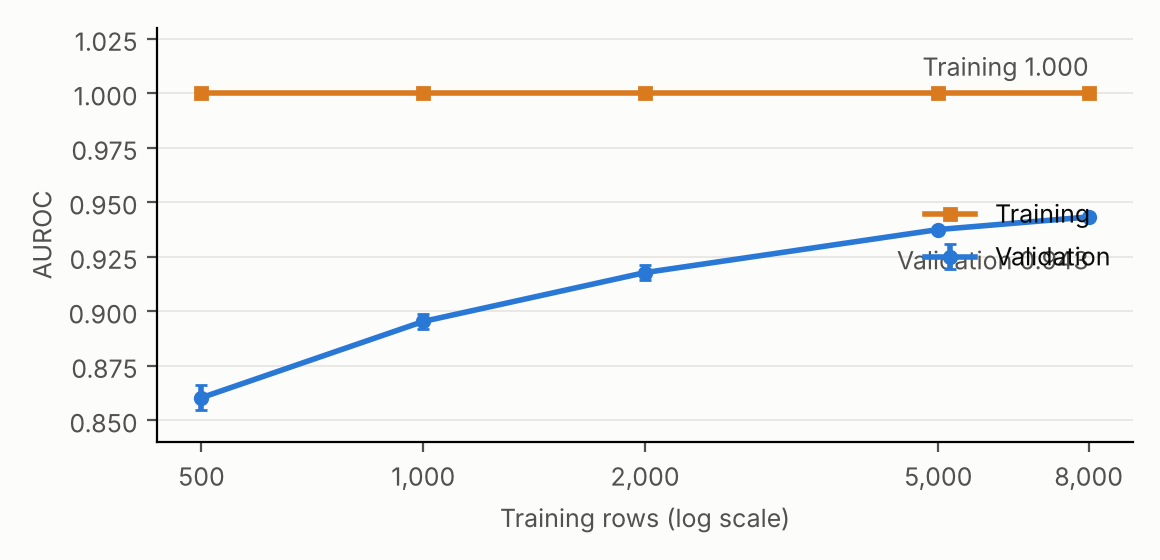
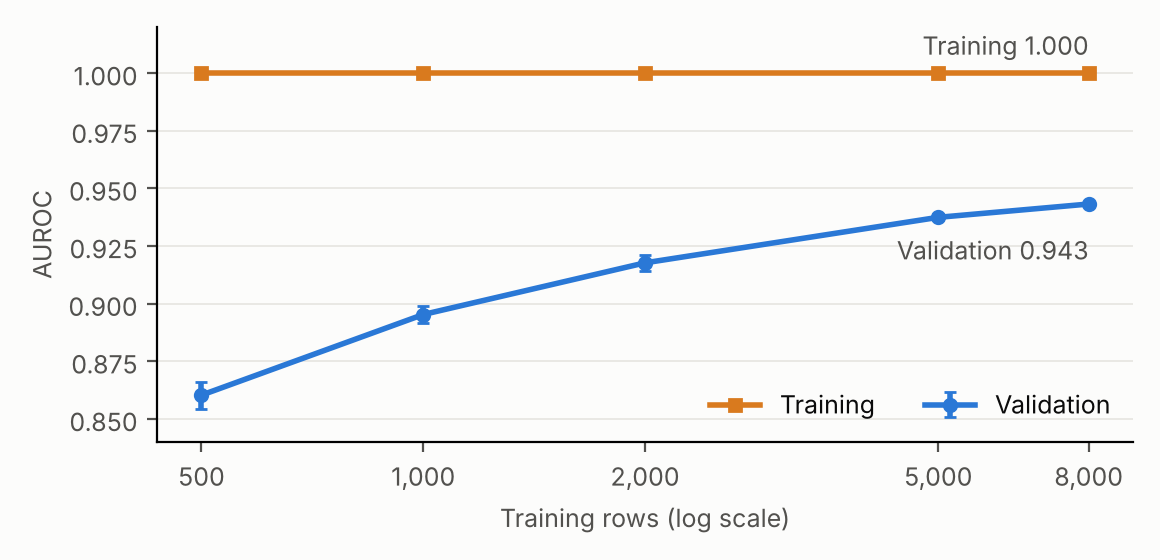
Document final commands and report experiments
Update the README for the final detector, the format-free fallback, and the
experiment order, and record the learning-curve figure and final results.

Claude-Session: https://claude.ai/code/session_01MHG8gS2kXdqiy5qaa8Fks1

diff --git a/submissions/team-name-todo/src/plot_curve.py b/submissions/team-name-todo/src/plot_curve.py
@@ -8,6 +8,6 @@ f, a = plt.subplots(figsize=(5.8, 2.8), facecolor="#fcfcfb"); a.set_facecolor("#
 a.plot(n, [r["train"] for r in c], color="#d97a1e", lw=2, marker="s", ms=4.5, label="Training")
 a.errorbar(n, [r["val"] for r in c], yerr=[r["val_sd"] for r in c], color="#2a78d6", lw=2, marker="o", ms=4.5, capsize=2, label="Validation")
 a.text(n[-1], 1.008, "Training 1.000", ha="right", color="#52514e"); a.text(n[-1], c[-1]["val"] - .024, f'Validation {c[-1]["val"]:.3f}', ha="right", color="#52514e")
-a.set(xscale="log", xlabel="Training rows (log scale)", ylabel="AUROC", ylim=(.84, 1.03)); a.set_xticks(n, [f"{x:,}" for x in n]); a.minorticks_off()
-a.spines[["top", "right"]].set_visible(False); a.grid(axis="y", color="#e6e5e0", lw=.6); a.legend(frameon=False, loc="center right", ncols=1)
+a.set(xscale="log", xlabel="Training rows (log scale)", ylabel="AUROC", ylim=(.84, 1.02)); a.set_xticks(n, [f"{x:,}" for x in n]); a.minorticks_off()
+a.spines[["top", "right"]].set_visible(False); a.grid(axis="y", color="#e6e5e0", lw=.6); a.legend(frameon=False, loc="lower right", ncols=2)
 f.tight_layout(); f.savefig("results/learning_curve.png", dpi=200)

diff --git a/submissions/team-name-todo/README.md b/submissions/team-name-todo/README.md
@@ -21,7 +21,7 @@ Place `train.csv`, `unlabeled.csv`, and `test.csv` in `./data/` (not committed).
 python src/train.py --train data/train.csv
 ```
 
-This evaluates on the fixed validation set in `splits/val_ids.txt`, writes `results/baseline.json`, then refits on all 10,000 labeled rows and saves `model.joblib`.
+This fits the final detector on 8,000 rows, evaluates the fixed validation set in `splits/val_ids.txt`, writes `results/final.json`, then refits on all 10,000 labeled rows and saves `model.joblib`.
 
 ## Write submission.csv
 
@@ -29,13 +29,38 @@ This evaluates on the fixed validation set in `splits/val_ids.txt`, writes `resu
 python src/predict.py --test data/test.csv --out submission.csv
 ```
 
+Format-free fallback:
+
+```bash
+python src/train.py --no-format --model-out model_nofmt.joblib --metrics-out results/final_nofmt.json
+python src/predict.py --model model_nofmt.joblib --out submission_no_format.csv
+```
+
+## Report experiments
+
+Run from this folder in this order:
+
+```bash
+python src/exp_models.py      # Q1
+python src/exp_curve.py       # Q2 and Q3
+python src/plot_curve.py      # Q2 figure
+python src/exp_shift.py       # Q5
+python src/exp_format.py      # Q5 blank-line follow-up
+python src/train.py           # final model
+python src/exp_errors.py      # Q4
+python src/exp_final_lodo.py  # final pseudo-domain scores
+```
+
+Use `python src/train.py --no-format --model-out model_nofmt.joblib --metrics-out results/final_nofmt.json` before `exp_final_lodo.py`.
+
 ## Validation protocol and seeds
 
 - Global seed: `20261023`
 - Validation: 2,000 rows from `train.csv`, 1,000 per class, with near-duplicate groups (word-trigram TF-IDF cosine >= 0.7) kept on one side.
 - `python src/make_split.py` recreates `splits/val_ids.txt`.
+- Final models use a stylometric newline feature; every labeled blank-line row is AI, so treat this as a likely dataset artifact.
 - `python src/shift_check.py` measures train/unlabeled/test shift from text only.
 
 ## AI assistance
 
-TODO: match Q6.3 in the report. Claude drafted the initial split, baseline, and shift-check code; describe what the team verified or changed.
+TODO: match Q6.3 in the report. Claude drafted the code and ran the experiments; describe what the team verified or changed.
